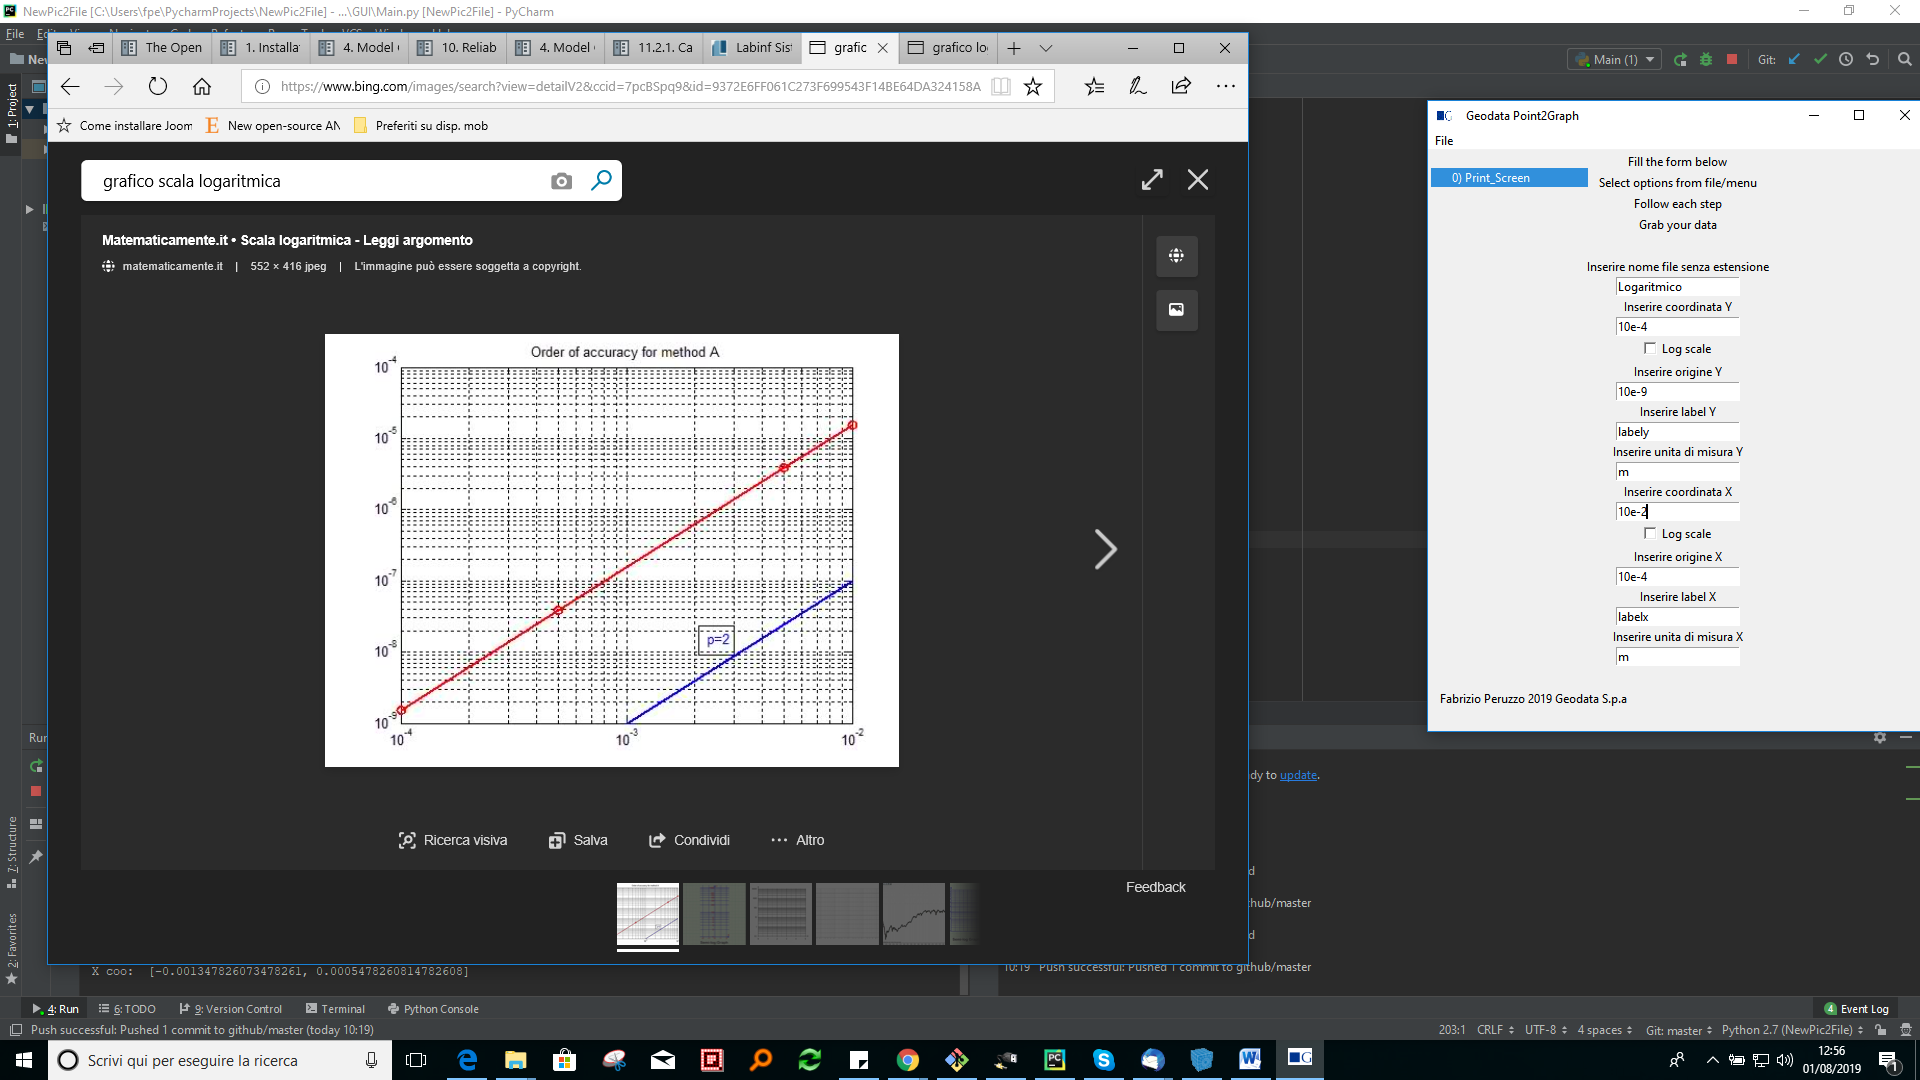
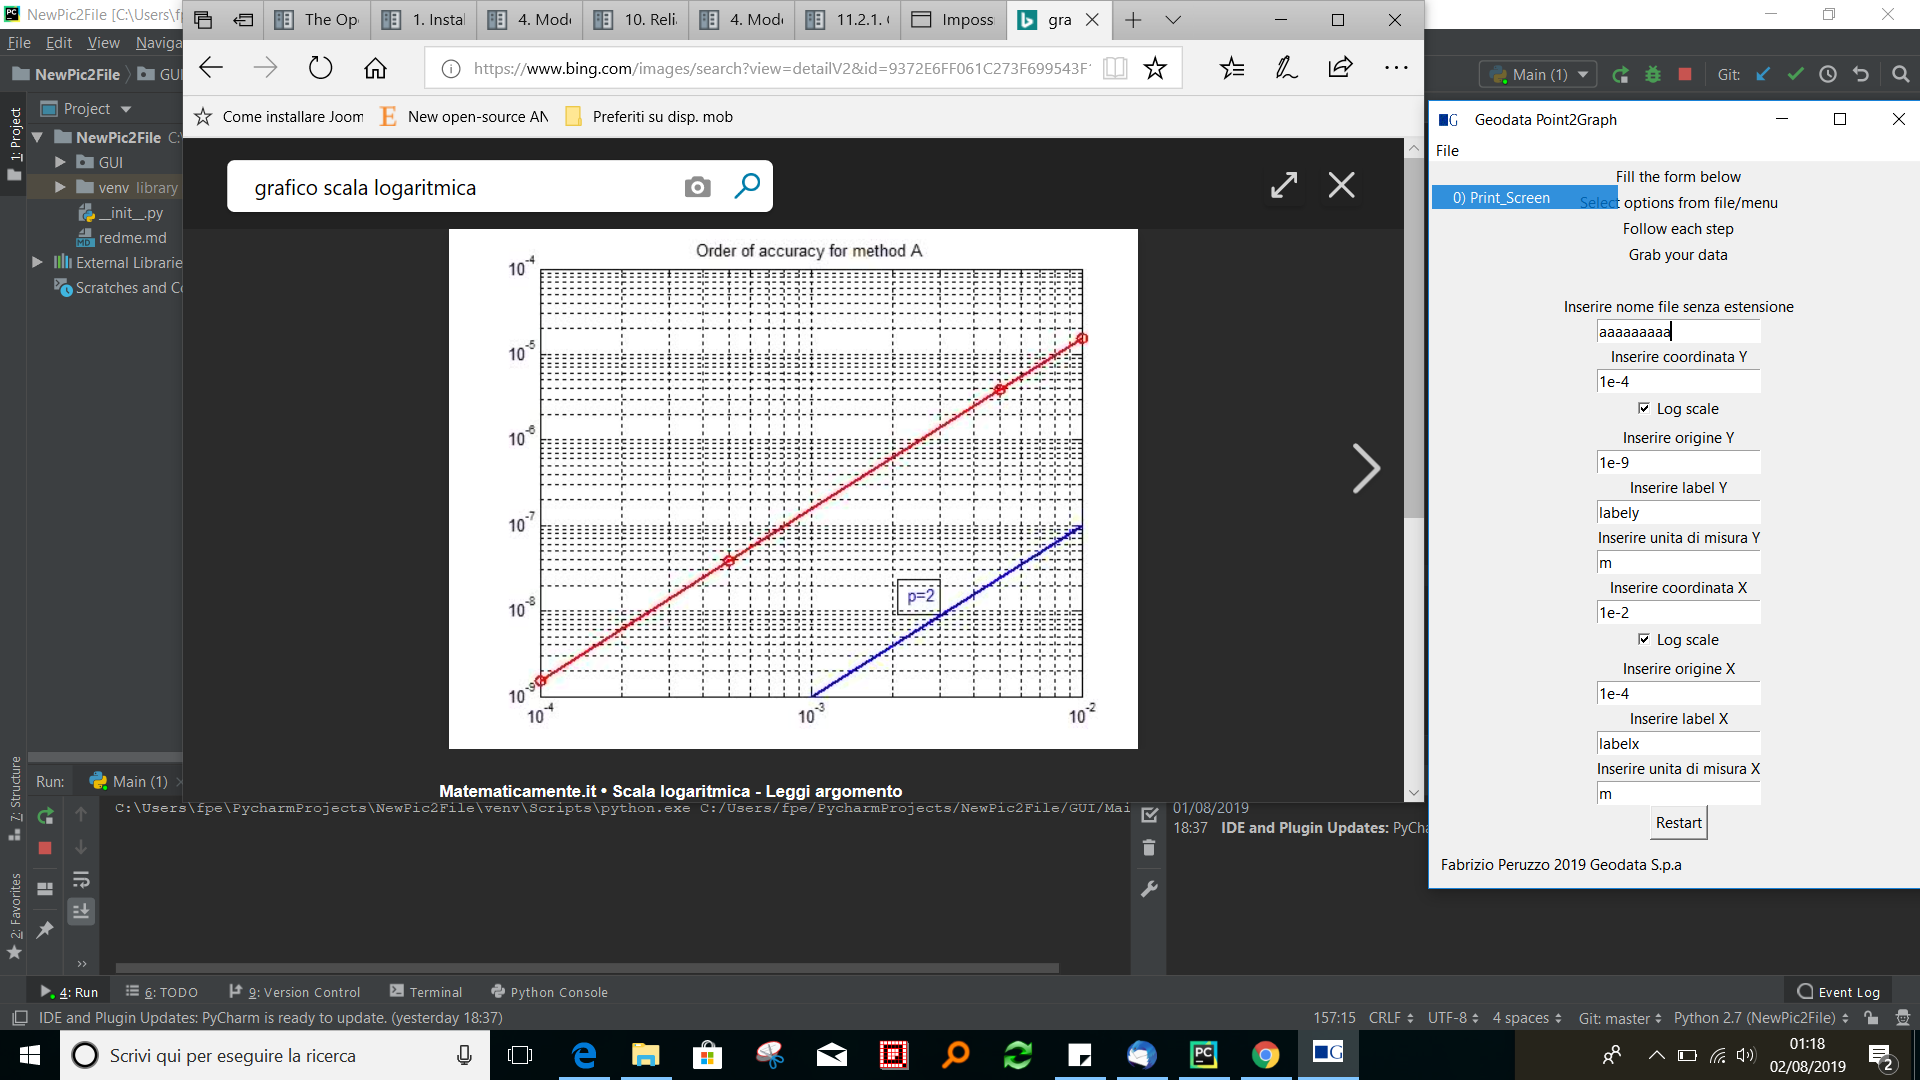
Logscale calculation added and checked

diff --git a/GUI/Main.py b/GUI/Main.py
@@ -1,13 +1,24 @@
 import Tkinter as tk
 from class_point2graph import *
 import numpy as np
+import tkMessageBox
 import sys
 import os
 import math
 
+
+
+
 ##########################################################
 #            RICHIAMO TUTTE LE DEF
 ##########################################################
+def restart_program():
+    """Restarts the current program.
+    Note: this function does not return. Any cleanup action (like
+    saving data) must be done before calling this function."""
+    python = sys.executable
+    os.execl(python, python, * sys.argv)
+
 def read_label():
 
     try:
@@ -94,17 +105,29 @@ def coordinates():
     cols=ist1.ls_point  #recupero le coord dalla classe creata (le prime 3 coo sono gli assi)
     coo=cols[3:]        #dalla 3 coordinata in poi lista punti grafico
 
+    ckvY = chkValueY.get()
+    ckvX = chkValueX.get()
 
-    ly1=float(ent.get())
-    ly2=float(ent7.get())
-    lx1=float(ent1.get())
-    lx2=float(ent8.get())
+    try:
+        if ckvY == True:
+            ly1 = math.log10(float(ent.get()))
+            ly2 = math.log10(float(ent7.get()))# origin of Y axis
+        else:
+            ly1=float(ent.get())
+            ly2=float(ent7.get())  # origin of Y axis
 
-    if chkValueY == True: Lyt = math.log10(ly1)- math.log10(ly2)
-    if chkValueX == True: Lxt = math.log10(lx1)- math.log10(lx2)
+        if ckvX == True:
+            lx1 = math.log10(float(ent1.get()))
+            lx2 = math.log10(float(ent8.get()))# origin of Y axis
+        else:
+            lx1=float(ent1.get())
+            lx2=float(ent8.get())  # origin of X axis
+    except:
+        tkMessageBox.showerror("Error", "Errore formato")
 
-    if chkValueY == False: Lyt = float(ly1)- float(ly2)
-    if chkValueX == False: Lxt = float(lx1)-float(lx2)
+
+    Lyt = ly1- ly2
+    Lxt = lx1-lx2
 
     xcoo = []
     ycoo = []
@@ -126,8 +149,14 @@ def coordinates():
         Lx = Lx1
         Ly = Ly1
 
-    print Lx1
-    print Lx
+    print 'Lx is:',Lx
+    print 'Ly is:', Ly
+    print 'Lyt is:',Lyt
+    print 'Lxt is:',Lxt
+    print 'ly1 is:',ly1
+    print 'lx1 is:',lx1
+    print 'chkvaluey is:',ckvY
+    print 'chkvaluex is:',ckvX
 
     fattconvy = Lyt/Ly
     fattconvx = Lxt/Lx
@@ -139,15 +168,26 @@ def coordinates():
     ycoot = []
 
     for i in xcoo:
-        if chkValueX == True: xcoot.append((i*fattconvx)**10)
-        if chkValueX == False: xcoot.append(i*fattconvx)
+        if ckvX == True:
+            xcoot.append(math.pow(10,(i*fattconvx+lx2)))
+        else:
+            xcoot.append(i*fattconvx+lx2)
 
     for i in ycoo:
-        if chkValueY == True: xcoot.append((i * fattconvx)**10)
-        if chkValueY == False: xcoot.append(i * fattconvx)
+        if ckvY == True:
+            ycoot.append(math.pow(10,(i*fattconvy+ly2)))
+        else:
+            ycoot.append(i*fattconvy+ly2)
 
-    print 'Y coo: ', ycoot
-    print 'X coo: ', xcoot
+    if ckvY==True:
+        print 'Y coo: ', ['%.2E' % x for x in ycoot]
+    else:
+        print 'Y coo: ', ycoot
+
+    if ckvX==True:
+        print 'X coo:', ['%.2E' % x for x in xcoot]
+    else:
+        print 'X coo: ', xcoot
 
     write_files(ycoot, xcoot, ls_lbl_in_f[0], ls_lbl_in_f[2],ls_lbl_in_f[1],ls_lbl_in_f[3])
 
@@ -172,13 +212,17 @@ def coordinates():
 #               INIZIO             CODICE
 #############################################################
 
-
+#tk= tkinter is the module
+#Tk is the class inside tkinter you dont need arguments
 
 root = tk.Tk()
+
 root.title("   Geodata Point2Graph  ")
 screenwidth = root.winfo_screenwidth()
-distance = screenwidth - 500 # 500 se 500x700
-root.geometry('500x600+'+str(distance)+'+100') # porta al di sotto dell'angolo di 100 pixel
+winwidth=500
+winheight=750
+distance = screenwidth - winwidth
+root.geometry(str(winwidth)+'x'+str(winheight)+'+'+str(distance)+'+100') # porta al di sotto dell'angolo di 100 pixel
 
 curr_dir = os.path.dirname(__file__)
 img_path = curr_dir + "/image/gd_small.gif"
@@ -214,8 +258,8 @@ ent = tk.Entry(root)
 ent.pack()
 
 chkValueY = tk.BooleanVar()
-chkValueY = False
-chb1 = tk.Checkbutton(root, text="Log scale",var=chkValueY)
+#chkValueY = False
+chb1 = tk.Checkbutton(root, text="Log scale",variable=chkValueY)
 chb1.pack()
 
 
@@ -245,7 +289,7 @@ ent1 = tk.Entry(root)
 ent1.pack()
 
 chkValueX = tk.BooleanVar()
-chkValueX = False
+#chkValueX = False
 chb2 = tk.Checkbutton(root, text="Log scale",var=chkValueX)
 chb2.pack()
 
@@ -267,7 +311,7 @@ ent5 = tk.Entry(root)
 ent5.insert(0, ls_lbl_in[3])
 ent5.pack()
 
-
+tk.Button(root, text="Restart", command=restart_program).pack()
 
 
 w5 = tk.Label(root,
